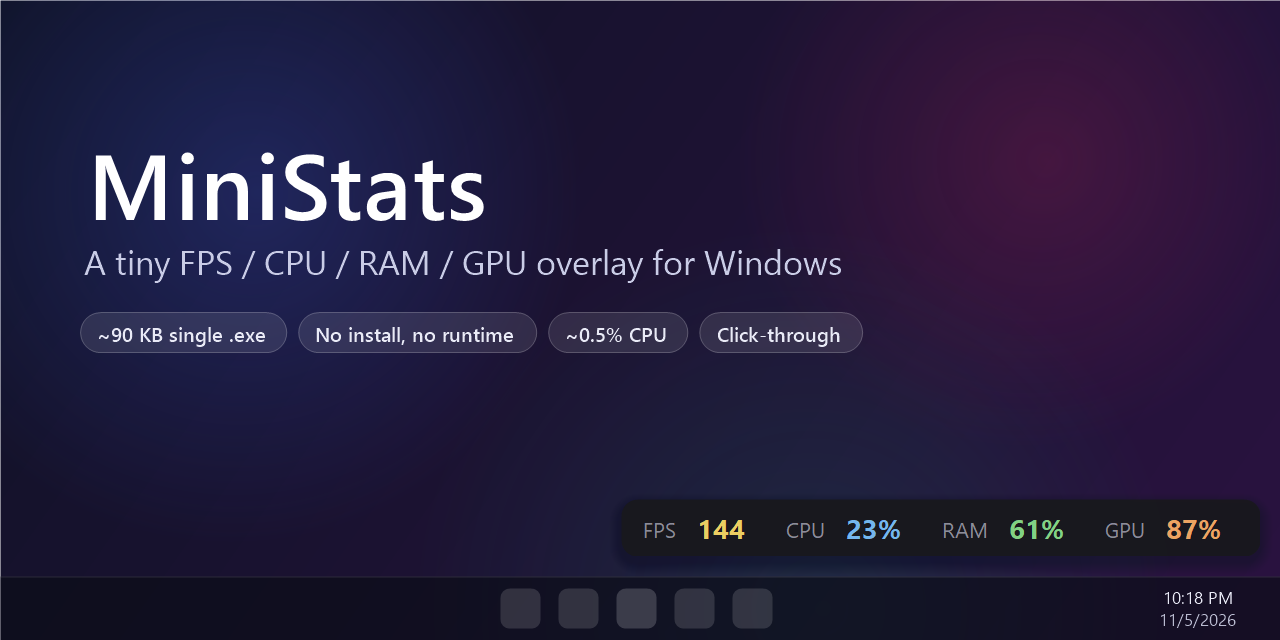
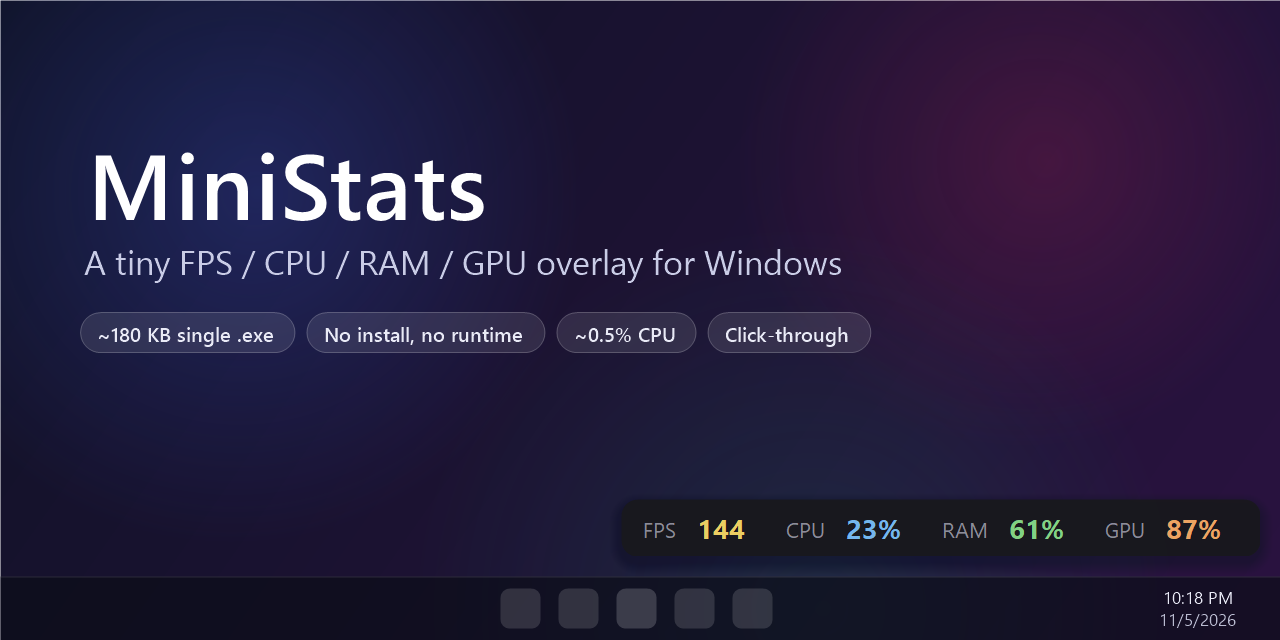
Docs: settings window guide and screenshots
- README: Settings section with page overview and keyboard shortcuts, trimmed tray
  menu, anchor / monitor keys, developer switches, updated layout and roadmap
- New images rendered from the real window: settings.png and settings-tour.png
- tools/make-images.ps1 renders the settings pages with --shot-settings and frames them

Changed region(s): [[0.0938, 0.5, 0.6875, 0.5625]]

diff --git a/README.md b/README.md
@@ -5,7 +5,7 @@
 # MiniStats
 
 **A tiny, always-on-top FPS / CPU / RAM / GPU overlay for Windows.**
-One ~90 KB executable. No installer, no runtime to download, no background services.
+One small executable. No installer, no runtime to download, no background services.
 
 [![build](https://github.com/byocao/mini-stats/actions/workflows/build.yml/badge.svg)](https://github.com/byocao/mini-stats/actions/workflows/build.yml)
 [![release](https://img.shields.io/github/v/release/byocao/mini-stats?display_name=tag&sort=semver)](https://github.com/byocao/mini-stats/releases/latest)
@@ -34,11 +34,11 @@ of the way.
 - **RAM** usage as a percentage or as `used / total GB`.
 - **GPU** load, **VRAM** and **GPU temperature** via NVIDIA NVML (ships with the driver — nothing to install).
 - **Always on top & click-through**: it never steals focus or blocks a click. Stays visible over borderless/windowed games.
-- **Configurable**: pick and reorder metrics, fonts, colours, opacity, rounded corners, position.
-  Edits to `MiniStats.ini` apply **live**, no restart needed.
-- **Per-monitor DPI aware**: crisp at 100–200 % scaling, on any monitor.
-- **Featherweight**: around 0.5 % CPU on a typical gaming PC, a single ~90 KB `.exe`, built on the .NET Framework
-  that already ships with Windows.
+- **Settings window** with a live preview: metrics and their order, themes, colours, font, opacity, corners,
+  display, corner or free placement, start with Windows. Every change shows on the real bar instantly.
+- **Multi-monitor aware**: dock to any corner of any display, per-monitor DPI aware.
+- **Featherweight**: around 0.5 % CPU on a typical gaming PC and ~15 MB of RAM in use, a single ~180 KB `.exe`
+  built on the .NET Framework that already ships with Windows.
 
 <p align="center"><img src="docs/images/layouts.png" alt="Layouts" width="100%"></p>
 <p align="center"><img src="docs/images/themes.png" alt="Themes" width="100%"></p>
@@ -51,22 +51,40 @@ of the way.
    *(Administrator rights are only needed for the FPS counter — see [FAQ](#faq). Everything else works without.)*
 3. The bar appears in the bottom-right corner of your primary screen. Done.
 
-To have it start automatically, right-click the tray icon → **Start with Windows**. This registers a logon task
-that launches MiniStats elevated, so you will not get a UAC prompt on every boot.
+Open **Settings** by double-clicking the tray icon (or just run `MiniStats.exe` again). Under **General → Start with
+Windows** MiniStats registers a logon task that launches it elevated, so you will not get a UAC prompt on every boot.
+
+## Settings
+
+<p align="center"><img src="docs/images/settings.png" alt="MiniStats settings window" width="100%"></p>
+
+| Page | What you can change |
+| --- | --- |
+| **Metrics** | Turn each metric on or off and move it up or down — the bar follows the list order. Refresh rate. |
+| **Appearance** | One-click themes (Midnight, Daylight, Nord, Mono), any installed font, text size, opacity, corner radius, and every colour through a palette or hex code. |
+| **Position** | Display, a clickable corner map, *Drag to place* for a free position, and the distance from the screen edge. |
+| **General** | FPS counter status with *Restart as administrator*, *Start with Windows*, the settings file, version info. |
+
+Changes preview live on the overlay. **Save** / **Apply** keep them, **Cancel** (or <kbd>Esc</kbd>) puts the bar back
+exactly as it was. <kbd>Ctrl</kbd>+<kbd>S</kbd> saves and closes.
+
+<details>
+<summary><b>All four pages</b></summary>
+<p align="center"><img src="docs/images/settings-tour.png" alt="Metrics, Appearance, Position and General pages" width="100%"></p>
+</details>
 
 ### Tray menu
 
 | Item | What it does |
 | --- | --- |
-| **Unlock to move** / **Lock position** | Makes the bar draggable (yellow outline). Locking saves the position. Double-clicking the tray icon toggles this too. |
-| **Reset position** | Docks the bar back to the bottom-right corner of the primary screen. |
-| **Edit config...** | Opens `MiniStats.ini` in Notepad. Changes apply as soon as you save. |
-| **Start with Windows** | Creates / removes the `MiniStats` logon task (requires running as administrator). |
+| **Settings...** | Opens the settings window (same as double-clicking the tray icon). |
+| **Unlock to move** / **Lock position** | Makes the bar draggable (yellow outline); locking keeps it where you dropped it. |
 | **Exit** | Closes MiniStats and stops its trace session. |
 
-## Configuration
+## Configuration file
 
-`MiniStats.ini` is created next to the executable on first run.
+Everything in the settings window is stored in `MiniStats.ini` next to the executable. You never have to touch it,
+but it is plain text and hand edits are picked up automatically.
 
 ```ini
 # metrics, shown in this order: fps, cpu, ram, ramgb, gpu, vram, gputemp
@@ -87,7 +105,9 @@ color_gpu=#FFB066
 color_vram=#FF96C8
 color_temp=#FF806E
 
-# position: leave x/y empty to dock to the bottom-right corner of the primary screen
+# position
+anchor=bottom-right
+monitor=primary
 margin=10
 x=
 y=
@@ -101,44 +121,10 @@ y=
 | `opacity` | `0.88` | `0.2` – `1.0`. |
 | `corner_radius` | `8` | `0` for square corners. |
 | `background`, `color_*` | see above | Hex colours. `color_label` is used for the `FPS` / `CPU` / … captions. |
-| `margin` | `10` | Distance from the screen edge when docked. |
-| `x`, `y` | *(empty)* | Absolute position in pixels; set automatically when you lock the bar after moving it. |
-
-<details>
-<summary><b>Theme presets</b> (copy into your ini)</summary>
-
-```ini
-# Daylight
-background=#F6F7F9
-color_label=#6E7781
-color_fps=#B7791F
-color_cpu=#1F6FEB
-color_ram=#1A7F37
-color_gpu=#D9480F
-```
-
-```ini
-# Nord
-background=#2E3440
-color_label=#81A1C1
-color_fps=#EBCB8B
-color_cpu=#88C0D0
-color_ram=#A3BE8C
-color_gpu=#D08770
-```
-
-```ini
-# Mono
-background=#000000
-opacity=0.75
-color_label=#8A8A8A
-color_fps=#FFFFFF
-color_cpu=#FFFFFF
-color_ram=#FFFFFF
-color_gpu=#FFFFFF
-```
-
-</details>
+| `anchor` | `bottom-right` | `top-left`, `top-right`, `bottom-left`, `bottom-right`, or `custom` (uses `x`/`y`). |
+| `monitor` | `primary` | `primary` or a display number (`1`, `2`, … in Windows display order). |
+| `margin` | `10` | Distance from the screen edge when docked to a corner. |
+| `x`, `y` | *(empty)* | Absolute position in pixels for `anchor=custom`; filled in when you drag the bar. |
 
 ## How it works
 
@@ -149,12 +135,13 @@ color_gpu=#FFFFFF
 | RAM | `GlobalMemoryStatusEx` | one syscall |
 | GPU / VRAM / temp | `nvml.dll` (`nvmlDeviceGetUtilizationRates`, `GetMemoryInfo`, `GetTemperature`) | three driver calls |
 
-The window is a layered `WS_EX_TRANSPARENT | WS_EX_NOACTIVATE | WS_EX_TOOLWINDOW` popup, so clicks pass straight
-through it and it never appears in Alt+Tab or the taskbar.
+The overlay is a layered `WS_EX_TRANSPARENT | WS_EX_NOACTIVATE | WS_EX_TOOLWINDOW` popup, so clicks pass straight
+through it and it never appears in Alt+Tab or the taskbar. The settings window is WPF (also part of the .NET
+Framework) and is only loaded when you open it; its memory is released back to Windows when you close it.
 
 ## Build from source
 
-Requirements: Windows 10/11 x64. That's it — the C# compiler that comes with the .NET Framework 4.x is enough.
+Requirements: Windows 10/11 x64. That's it — the C# compiler and WPF that come with the .NET Framework 4.x are enough.
 
 ```bat
 git clone https://github.com/byocao/mini-stats.git
@@ -166,26 +153,33 @@ The result is `bin\MiniStats.exe`.
 
 ```text
 mini-stats/
-├─ src/MiniStats.cs        # the whole app (overlay, ETW FPS tracker, NVML, config, renderer)
-├─ src/AssemblyInfo.cs     # version metadata
-├─ assets/icon.ico         # app icon (generated by tools/make-icon.ps1)
-├─ tools/make-images.ps1   # regenerates docs/images with the app's own renderer
-├─ build.cmd               # one-line csc build, no SDK needed
-└─ .github/workflows/      # CI build + release on tags
+├─ src/MiniStats.cs          # overlay, config, ETW FPS tracker, NVML, bar renderer
+├─ src/SettingsWindow.xaml   # settings window layout and styles (embedded resource)
+├─ src/SettingsWindow.cs     # settings window logic
+├─ src/DevTools.cs           # --selftest and --shot-settings
+├─ src/AssemblyInfo.cs       # version metadata
+├─ assets/                   # app + tray icons (generated by tools/make-icon.ps1)
+├─ tools/make-images.ps1     # regenerates docs/images with the app's own renderer
+├─ build.cmd                 # one csc call, no SDK needed
+└─ .github/workflows/        # CI build + release on tags
 ```
 
 ### Developer switches
 
 | Command | Purpose |
 | --- | --- |
+| `MiniStats.exe --settings [page]` | Opens the settings window (page `0`–`3`); talks to the running instance if there is one. |
+| `MiniStats.exe --selftest [report.txt]` | Drives the settings window against a fake host (themes, colours, sliders, ordering, save/cancel/reset, startup) and writes a PASS/FAIL report. Exit code 0 = all passed. |
+| `MiniStats.exe --shot-settings <dir>` | Renders every settings page to PNG. Used for the README images. |
+| `MiniStats.exe --render out.png --config my.ini --scale 2` | Renders the bar offscreen with sample values (`--sample fps=144,cpu=23,...`). |
 | `MiniStats.exe --probe 5` | Records present events for 5 s and writes `probe.txt` with present rates per process. Useful to check which process a game or emulator presents from. Run elevated. |
-| `MiniStats.exe --render out.png --config my.ini --scale 2` | Renders the bar offscreen to a PNG with sample values (`--sample fps=144,cpu=23,...`). Used for the README images. |
 
 ## FAQ
 
 **Why does FPS need administrator rights?**
 Windows only lets administrators (or members of the *Performance Log Users* group) start a real-time ETW trace
-session, which is how present events are observed. Without it MiniStats still runs and shows `FPS n/a`.
+session, which is how present events are observed. Without it MiniStats still runs and shows `FPS n/a` — use
+**Settings → General → Restart as administrator**.
 
 **FPS shows `--`.**
 The foreground window isn't presenting frames (e.g. a static desktop or a minimised game), or the frames come from
@@ -205,9 +199,10 @@ telemetry (ETW, performance counters) and the NVIDIA driver API — the same sou
 
 ## Roadmap
 
+- [x] Settings window with live preview
+- [x] Dock to any corner of any display
 - [ ] AMD / Intel GPU load via `GPU Engine` performance counters
 - [ ] Frame-time graph (1 % low)
-- [ ] Per-monitor docking presets (e.g. "bottom-right of monitor 2")
 - [ ] Optional network up/down speed
 
 ## License
